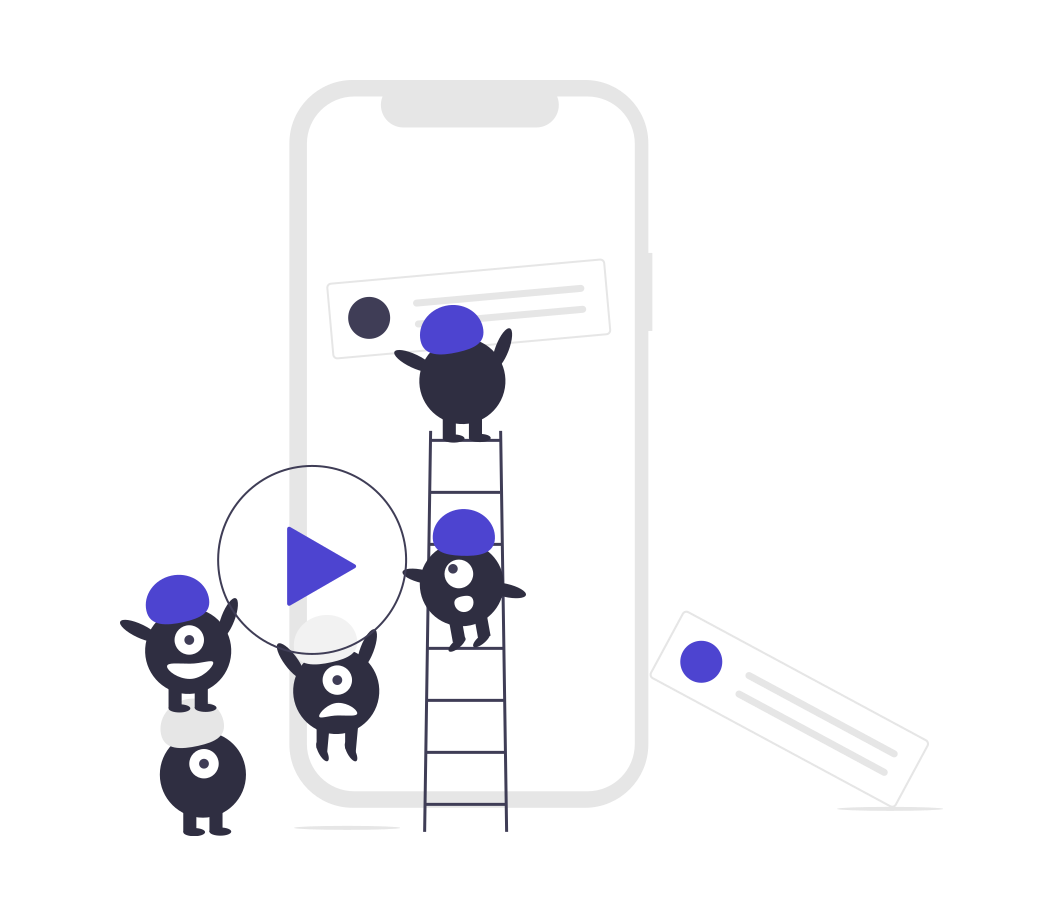
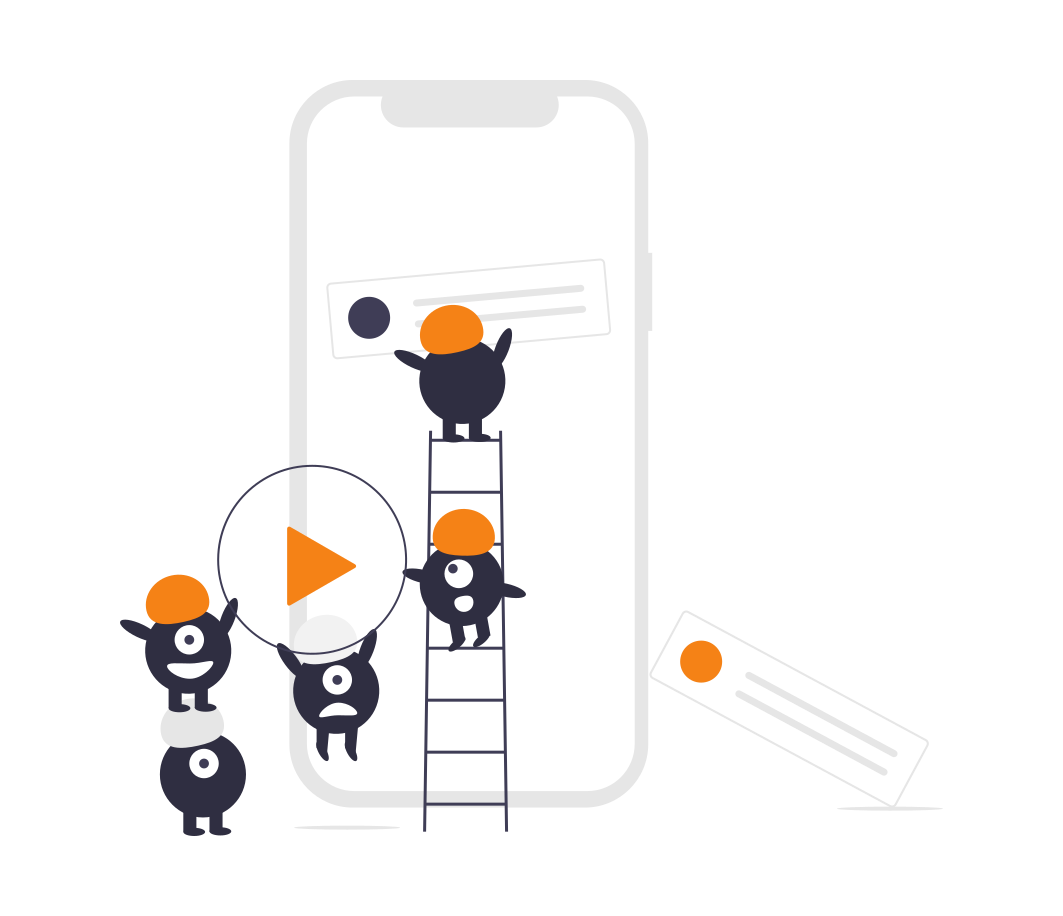
style uploaded

diff --git a/src/css/custom.css b/src/css/custom.css
@@ -6,13 +6,13 @@
 
 /* You can override the default Infima variables here. */
 :root {
-  --ifm-color-primary: #473ce6;
-  --ifm-color-primary-dark: #2f22e3;
-  --ifm-color-primary-darker: #281cda;
-  --ifm-color-primary-darkest: #2117b4;
-  --ifm-color-primary-light: #5f56e9;
-  --ifm-color-primary-lighter: #6b63eb;
-  --ifm-color-primary-lightest: #9089f0;
+  --ifm-color-primary: ##f58216;
+  --ifm-color-primary-dark: #fc7830;
+  --ifm-color-primary-darker: #f58216;
+  --ifm-color-primary-darkest: #f05e16;
+  --ifm-color-primary-light: #f5953c;
+  --ifm-color-primary-lighter: #f4a052;
+  --ifm-color-primary-lightest: #f6c18f;
   --ifm-code-font-size: 95%;
 }
 
@@ -28,15 +28,15 @@ html[data-theme="dark"] .docusaurus-highlight-code-line {
 }
 
 df-messenger {
-  --df-messenger-bot-message: #6c63ff; /* El color de fondo de la burbuja para los mensajes del agente */
+  --df-messenger-bot-message: #f58216; /* El color de fondo de la burbuja para los mensajes del agente */
 
-  --df-messenger-user-message: #6c63ff; /* El color de fondo de la burbuja para los mensajes del usuario */
+  --df-messenger-user-message: #f58216; /* El color de fondo de la burbuja para los mensajes del usuario */
 
   --df-messenger-font-color: #ffffff; /* El color de fuente para los mensajes */
 
-  --df-messenger-send-icon: #6c63ff; /* El color del ícono de envío en la casilla de entrada de texto */
+  --df-messenger-send-icon: #f58216; /* El color del ícono de envío en la casilla de entrada de texto */
 
-  --df-messenger-button-titlebar-color: #6c63ff; /* El color del botón flotante y de la barra de título del cuadro de chat */
+  --df-messenger-button-titlebar-color: #f58216; /* El color del botón flotante y de la barra de título del cuadro de chat */
 
   --df-messenger-button-titlebar-font-color: #ffffff; /* El color de fuente del título "NOMBRE DEL BOT" en la barra de título */
 

diff --git a/src/components/chatbot.js b/src/components/chatbot.js
@@ -12,8 +12,8 @@ module.exports = function () {
             <df-messenger
               intent="WELCOME"
               chat-icon="https://codexceleste.com/chatbotsOld/core/images/zaroc1.png"
-              chat-title="Zaroc"
-              agent-id="7f37a296-936b-4e34-93ce-10b50bdb8b97"
+              chat-title="Chasire"
+              agent-id="b09c4b7c-fe00-46fd-8b03-dbed2ab76bdc"
               language-code="es"
             ></df-messenger>
               `,
